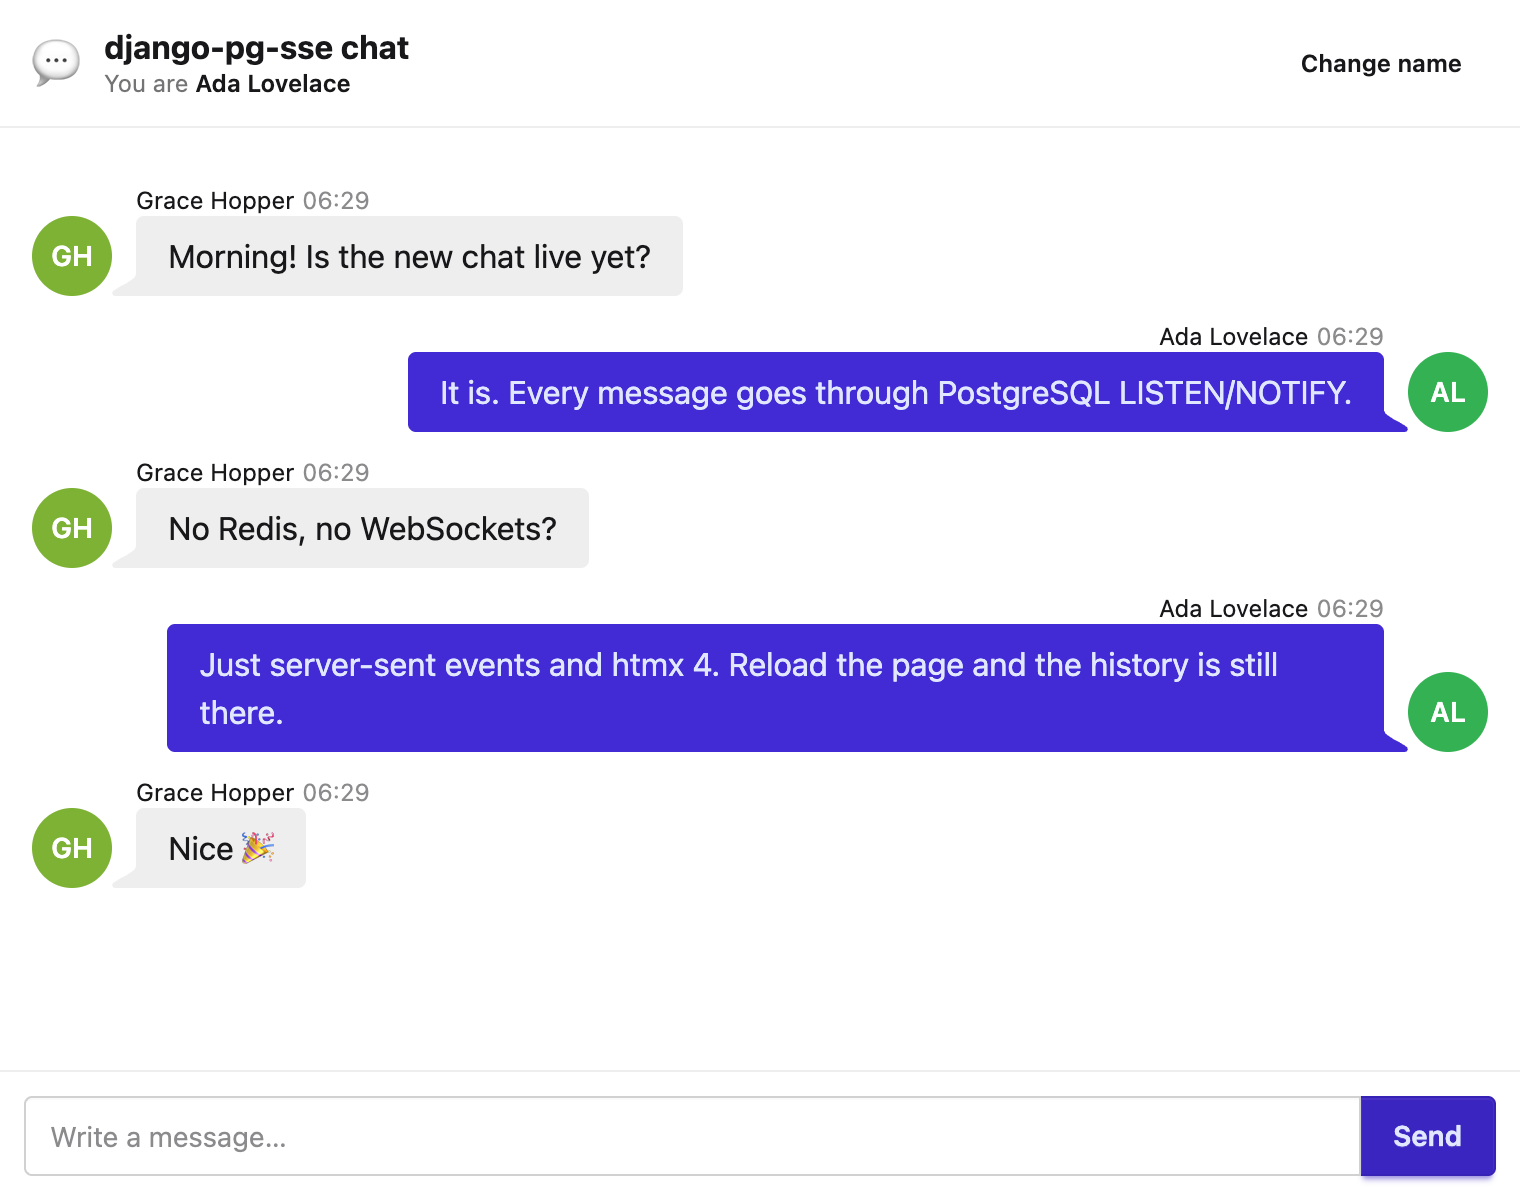
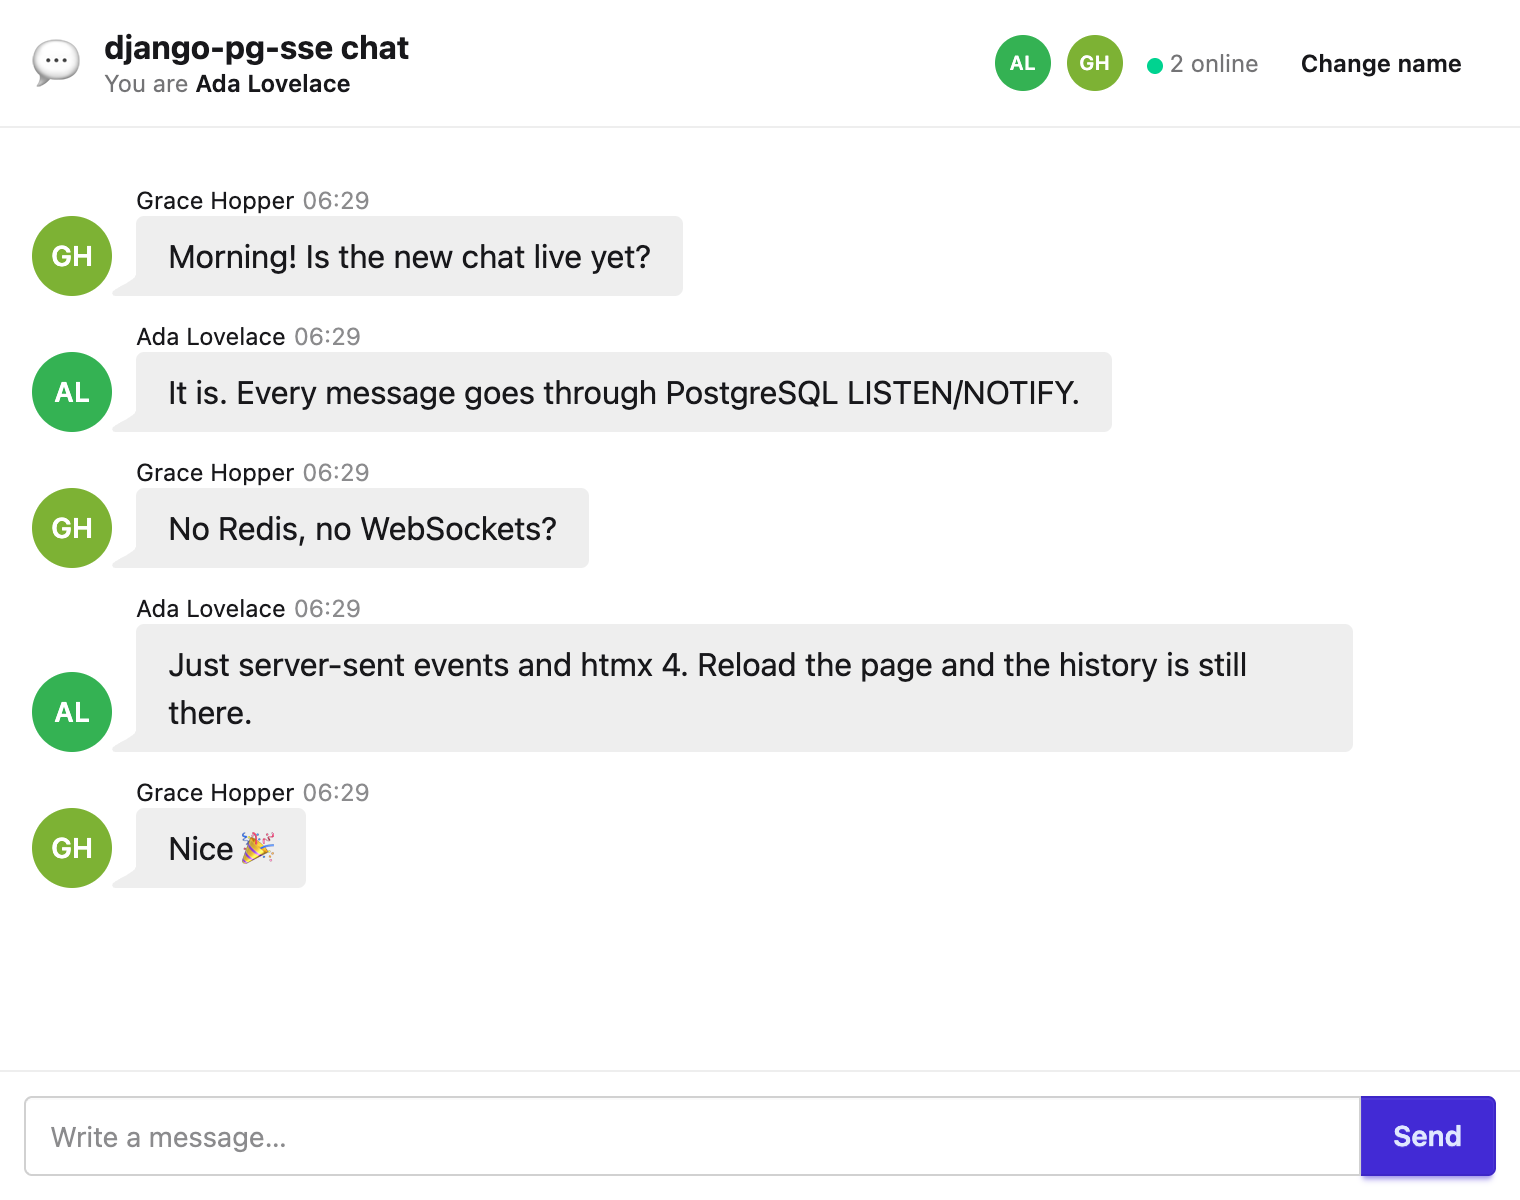
feat(chat): show who is online through django-pg-sse presence
The chat showed no one but the visitor. It tracks public:chat through
django_pg_sse.presence and broadcasts the online list into the header
on every join and leave.

Changed region(s): [[0.0, 0.4933, 0.9895, 0.6475], [0.0, 0.2775, 0.9895, 0.37], [0.6493, 0.0308, 0.8349, 0.0925]]

diff --git a/demo/templates/chat.html b/demo/templates/chat.html
@@ -5,16 +5,37 @@
 {% block content %}
     <main class="h-dvh flex flex-col max-w-3xl mx-auto bg-base-100 shadow-xl">
         <header class="navbar border-b border-base-300 px-4 gap-2">
-            <div class="flex-1 flex items-center gap-3">
+            <div class="flex-1 min-w-0 flex items-center gap-3">
                 <span class="text-2xl">💬</span>
-                <div>
-                    <h1 class="font-bold leading-tight">django-pg-sse chat</h1>
-                    <p class="text-xs text-base-content/60">
+                <div class="min-w-0">
+                    <h1 class="font-bold leading-tight truncate">django-pg-sse chat</h1>
+                    <p class="text-xs text-base-content/60 truncate">
                         You are <span class="font-semibold text-base-content">{{ request.session.chat_name }}</span>
                     </p>
                 </div>
             </div>
-            <a href="{% url 'join' %}" class="btn btn-ghost btn-sm">Change name</a>
+            {% partialdef online inline %}
+                <div id="online"
+                     {% if oob %}hx-swap-oob="true"{% endif %}
+                     class="flex items-center gap-2"
+                     title="{% for visitor in online %}{{ visitor.name }}{% if not forloop.last %}, {% endif %}{% endfor %}">
+                    <div class="avatar-group -space-x-2 hidden sm:flex">
+                        {% for visitor in online|slice:":4" %}
+                            <div class="avatar avatar-placeholder">
+                                <div class="w-7 rounded-full text-white text-[10px] font-semibold"
+                                     style="background-color: hsl({{ visitor.hue }} 55% 45%)">
+                                    <span>{{ visitor.initials }}</span>
+                                </div>
+                            </div>
+                        {% endfor %}
+                    </div>
+                    <span class="text-xs text-base-content/60 whitespace-nowrap">
+                        <span class="inline-block size-2 rounded-full bg-success align-middle"></span>
+                        {{ online|length }} online
+                    </span>
+                </div>
+            {% endpartialdef online %}
+            <a href="{% url 'join' %}" class="btn btn-ghost btn-sm whitespace-nowrap">Change name</a>
         </header>
         <section id="scroller" class="group flex-1 overflow-y-auto px-4 py-6">
             <div id="messages" class="flex flex-col gap-1">

diff --git a/tests/test_chat.py b/tests/test_chat.py
@@ -1,8 +1,20 @@
+from unittest import mock
+
+from asgiref.sync import async_to_sync
+from django.contrib.sessions.backends.db import SessionStore
+from django.test import RequestFactory
+from django.utils import timezone
+from django.utils.module_loading import import_string
+from django_pg_sse import conf
 from django_pg_sse.models import StreamEvent
+from django_pg_sse.presence import Presence
+from django_pg_sse.presence.models import PresenceEntry
 from model_bakery import baker
 from test_plus.test import TestCase
 
+from demo import events
 from demo.models import Message
+from demo.views import TOPIC
 
 
 class ChatTestCase(TestCase):
@@ -76,3 +88,62 @@ class SendTest(ChatTestCase):
         self.post("send", data={"text": "x" * 501})
         self.response_400()
         self.assertFalse(Message.objects.exists())
+
+
+class PresenceTest(ChatTestCase):
+    def test_a_visitor_with_a_name_is_present_under_their_sender_id(self):
+        request = RequestFactory().get("/events/")
+        request.session = SessionStore()
+        request.session.update({"chat_name": "Ada", "chat_sender": "abc123"})
+        self.assertEqual(events.chat_identity(request), ("visitor:abc123", {"name": "Ada"}))
+
+    def test_a_session_without_a_sender_id_is_not_present(self):
+        request = RequestFactory().get("/events/")
+        request.session = SessionStore()
+        request.session["chat_name"] = "Ada"
+        self.assertIsNone(events.chat_identity(request))
+
+    def test_a_visitor_without_a_name_is_not_present(self):
+        request = RequestFactory().get("/events/")
+        request.session = SessionStore()
+        self.assertIsNone(events.chat_identity(request))
+
+    def test_the_chat_topic_tracks_presence_by_that_identity(self):
+        self.assertIn(TOPIC, conf.get("PRESENCE_TOPICS"))
+        self.assertIs(import_string(conf.get("PRESENCE_IDENTITY")), events.chat_identity)
+
+    def test_the_page_lists_who_is_already_here(self):
+        baker.make(
+            PresenceEntry,
+            topic=TOPIC,
+            identity="visitor:x",
+            meta={"name": "Grace"},
+            last_seen=timezone.now(),
+        )
+        self.join("Ada")
+        self.get_check_200("chat")
+        self.assertResponseContains('id="online"', html=False)
+        self.assertResponseContains("Grace", html=False)
+
+    def test_a_change_broadcasts_the_new_list(self):
+        here = [Presence("visitor:a", {"name": "Ada"}), Presence("visitor:b", {"name": "Grace"})]
+        with (
+            mock.patch.object(events, "apresent", mock.AsyncMock(return_value=here)),
+            mock.patch.object(events, "abroadcast", mock.AsyncMock()) as abroadcast,
+        ):
+            async_to_sync(events.show_who_is_here)(
+                sender=Presence, topic=TOPIC, joined=(here[1],), left=()
+            )
+        ((topic, html), _) = abroadcast.call_args
+        self.assertEqual(topic, TOPIC)
+        self.assertIn('id="online"', html)
+        self.assertIn('hx-swap-oob="true"', html)
+        self.assertIn("Grace", html)
+        self.assertIn("2 online", html)
+
+    def test_other_topics_are_left_alone(self):
+        with mock.patch.object(events, "abroadcast", mock.AsyncMock()) as abroadcast:
+            async_to_sync(events.show_who_is_here)(
+                sender=Presence, topic="public:other", joined=(), left=()
+            )
+        abroadcast.assert_not_called()

diff --git a/demo/events.py b/demo/events.py
@@ -1,10 +1,17 @@
-"""Who may read which server-sent event topic. django-pg-sse runs the streams.
+"""Who may read which server-sent event topic, and who is in the chat.
 
-PG_SSE["CAN_SUBSCRIBE"] in settings.py points here.
+django-pg-sse runs the streams.
+
+PG_SSE["CAN_SUBSCRIBE"] and PG_SSE["PRESENCE_IDENTITY"] in settings.py point here.
 """
 
+from typing import Any
+
 from django.http import HttpRequest
+from django.template.loader import render_to_string
+from django_pg_sse import abroadcast
 from django_pg_sse.permissions import can_subscribe as default_can_subscribe
+from django_pg_sse.presence import Presence, apresent
 
 
 def can_subscribe(request: HttpRequest, topic: str) -> bool:
@@ -18,3 +25,30 @@ def can_subscribe(request: HttpRequest, topic: str) -> bool:
     # if kind == "room":
     #     return Membership.objects.filter(room=key, user=request.user.pk).exists()
     return default_can_subscribe(request, topic)
+
+
+def chat_identity(request: HttpRequest) -> tuple[str, dict[str, Any]] | None:
+    """Names a chat stream's visitor by the random sender id that views.join() stores.
+
+    Every reader of the chat sees the identity, so it is the sender id, never the session key.
+    """
+    if not {"chat_name", "chat_sender"} <= request.session.keys():
+        return None
+    return f"visitor:{request.session['chat_sender']}", {"name": request.session["chat_name"]}
+
+
+async def show_who_is_here(
+    sender: Any, topic: str, joined: tuple[Presence, ...], left: tuple[Presence, ...], **kwargs: Any
+) -> None:
+    """Sends the chat's new online list to every open chat page.
+
+    apps.py connects it to presence_changed.
+    """
+    from demo.models import Visitor
+    from demo.views import TOPIC
+
+    if topic != TOPIC:
+        return
+    online = Visitor.of(await apresent(topic))
+    html = render_to_string("chat.html#online", {"online": online, "oob": True})
+    await abroadcast(topic, html)

diff --git a/demo/models.py b/demo/models.py
@@ -1,6 +1,29 @@
+from dataclasses import dataclass
 from zlib import crc32
 
 from django.db import models
+from django_pg_sse.presence import Presence
+
+
+@dataclass(frozen=True)
+class Visitor:
+    """A chat visitor as the page shows them: a name with initials and an avatar hue."""
+
+    name: str
+
+    @classmethod
+    def of(cls, readers: list[Presence]) -> list[Visitor]:
+        """The visitors behind the readers that present() returns."""
+        return [cls(reader.meta["name"]) for reader in readers]
+
+    @property
+    def initials(self) -> str:
+        return "".join(part[0] for part in self.name.split()[:2]).upper()
+
+    @property
+    def hue(self) -> int:
+        """A stable avatar hue per name."""
+        return crc32(self.name.encode()) % 360
 
 
 class Message(models.Model):
@@ -17,9 +40,8 @@ class Message(models.Model):
 
     @property
     def initials(self) -> str:
-        return "".join(part[0] for part in self.name.split()[:2]).upper()
+        return Visitor(self.name).initials
 
     @property
     def hue(self) -> int:
-        """A stable avatar hue per name."""
-        return crc32(self.name.encode()) % 360
+        return Visitor(self.name).hue

diff --git a/demo/views.py b/demo/views.py
@@ -5,9 +5,10 @@ from django.shortcuts import redirect, render
 from django.template.loader import render_to_string
 from django.views.decorators.http import require_POST
 from django_pg_sse import broadcast
+from django_pg_sse.presence import present
 
 from demo.forms import JoinForm, MessageForm
-from demo.models import Message
+from demo.models import Message, Visitor
 
 TOPIC = "public:chat"
 HISTORY = 50
@@ -28,7 +29,13 @@ def chat(request: HttpRequest) -> HttpResponse:
         return redirect("join")
     # The newest messages, shown oldest first.
     history = reversed(Message.objects.order_by("-pk")[:HISTORY])
-    return render(request, "chat.html", {"history": history, "form": MessageForm(), "topic": TOPIC})
+    context = {
+        "history": history,
+        "form": MessageForm(),
+        "topic": TOPIC,
+        "online": Visitor.of(present(TOPIC)),
+    }
+    return render(request, "chat.html", context)
 
 
 @require_POST

diff --git a/demo/settings.py b/demo/settings.py
@@ -62,6 +62,7 @@ INSTALLED_APPS += [
     "django_tasks_db",
     "crontask",
     "django_pg_sse",
+    "django_pg_sse.presence",
 ]
 
 # Our apps
@@ -231,6 +232,9 @@ PG_SSE = {
     "CAN_SUBSCRIBE": "demo.events.can_subscribe",
     # A reconnecting stream replays missed events from this window, after which they are pruned.
     "RETENTION_HOURS": env.int("EVENTS_RETENTION_HOURS", default=24),
+    # Who is in the chat; events.py names each visitor.
+    "PRESENCE_TOPICS": ["public:chat"],
+    "PRESENCE_IDENTITY": "demo.events.chat_identity",
 }
 
 # django-tailwind-cli settings

diff --git a/demo/apps.py b/demo/apps.py
@@ -11,3 +11,7 @@ class ProjectConfig(AppConfig):
         import_module(f"{self.name}.scheduler_lock").install()
         cache = import_module(f"{self.name}.cache")
         post_migrate.connect(cache.create_cache_tables, sender=self)
+        from django_pg_sse.presence import presence_changed
+
+        events = import_module(f"{self.name}.events")
+        presence_changed.connect(events.show_who_is_here, dispatch_uid="demo.show_who_is_here")

diff --git a/README.md b/README.md
@@ -4,8 +4,9 @@ A small chat that shows [django-pg-sse](https://github.com/oliverandrich/django-
 Visitors pick a name and chat; there is no login.
 Messages reach every open browser over PostgreSQL LISTEN/NOTIFY and server-sent events.
 No Redis and no WebSocket server are involved.
+The header shows who is online, through the presence app of django-pg-sse.
 
-![The chat page with messages from two visitors; the reader's own messages sit on the right.](docs/screenshot.png)
+![The chat page with messages from two visitors and both of them online in the header.](docs/screenshot.png)
 
 The project was generated from [django-project-starter](https://github.com/oliverandrich/django-project-starter).
 It uses htmx 4 with its hx-sse extension, and Tailwind CSS with daisyUI.
@@ -32,7 +33,9 @@ Open <http://127.0.0.1:8000/> in two browsers, or in a normal and a private wind
 | `demo/templates/chat.html` | The partial `broadcast` wraps a message in `hx-swap-oob="beforeend"` for `#messages`. |
 | `demo/templates/chat.html` | `hx-sse:connect` opens one stream for the topic `public:chat`. |
 | `demo/templates/chat.html` | A short script aligns the visitor's own messages, since every visitor receives the same HTML. |
-| `demo/settings.py` | `PG_SSE` points `CAN_SUBSCRIBE` at `demo/events.py`. |
+| `demo/settings.py` | `PG_SSE` points `CAN_SUBSCRIBE` and `PRESENCE_IDENTITY` at `demo/events.py` and tracks `public:chat`. |
+| `demo/events.py` | `chat_identity()` names a visitor by the random sender id; `show_who_is_here()` broadcasts the online list. |
+| `demo/templates/chat.html` | The partial `online` renders that list, with `hx-swap-oob="true"` in the broadcast. |
 | `demo/urls.py` | The stream view lives at `/events/`. |
 
 `broadcast()` sends after the transaction commits.
@@ -44,6 +47,9 @@ The page itself renders the last 50 messages.
 
 A message sent between rendering the page and opening the stream does not reach that page.
 The first connect has no `Last-Event-ID` to replay from.
+
+The online list keeps a visitor's old name after a name change until the next join or leave.
+`present()` returns the name of the visitor's oldest open stream.
 
 ## License
 
